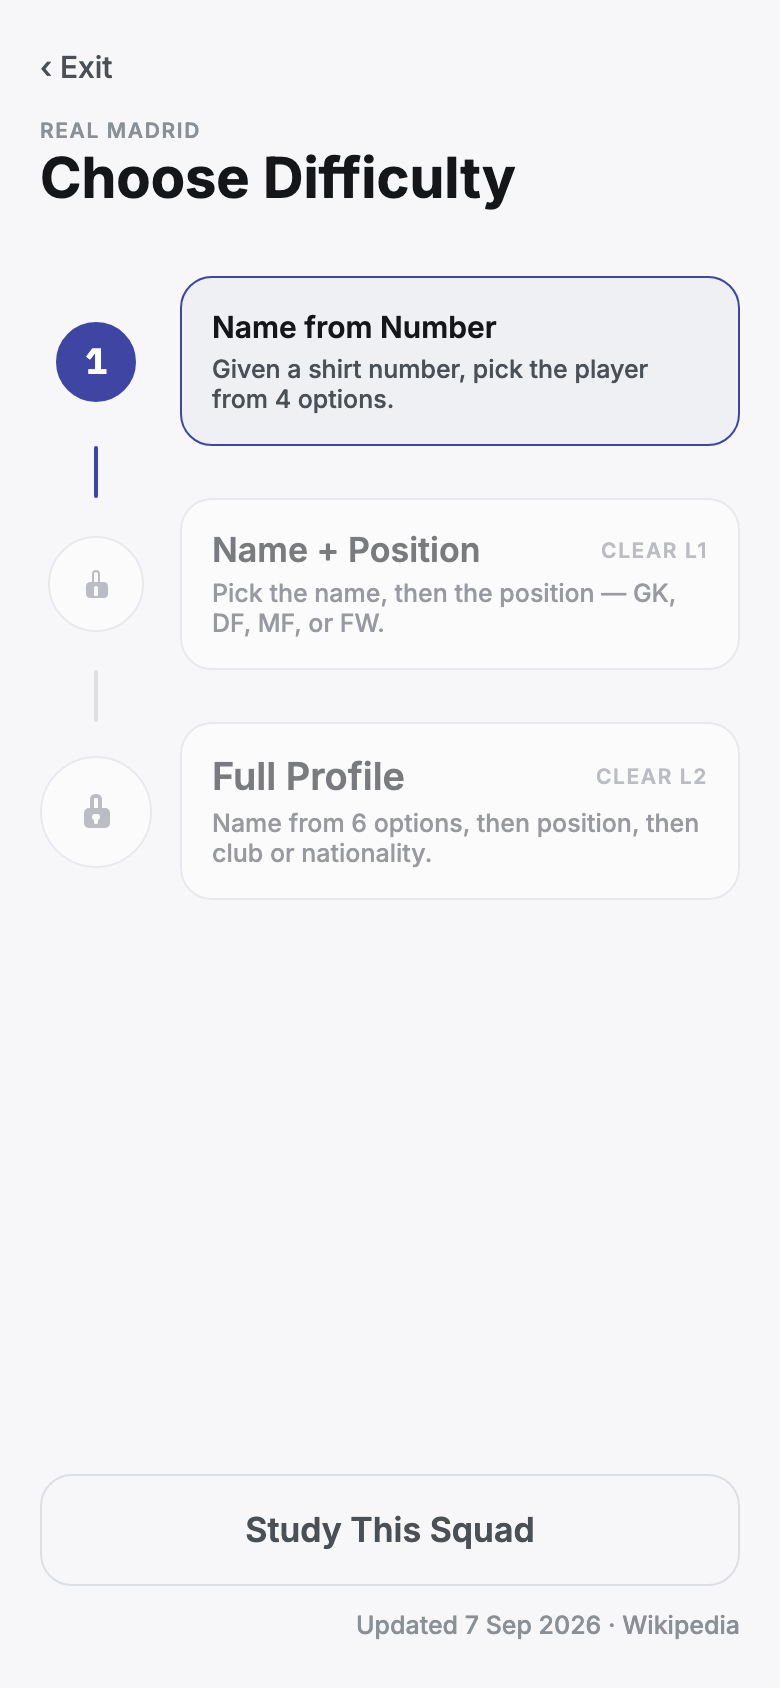
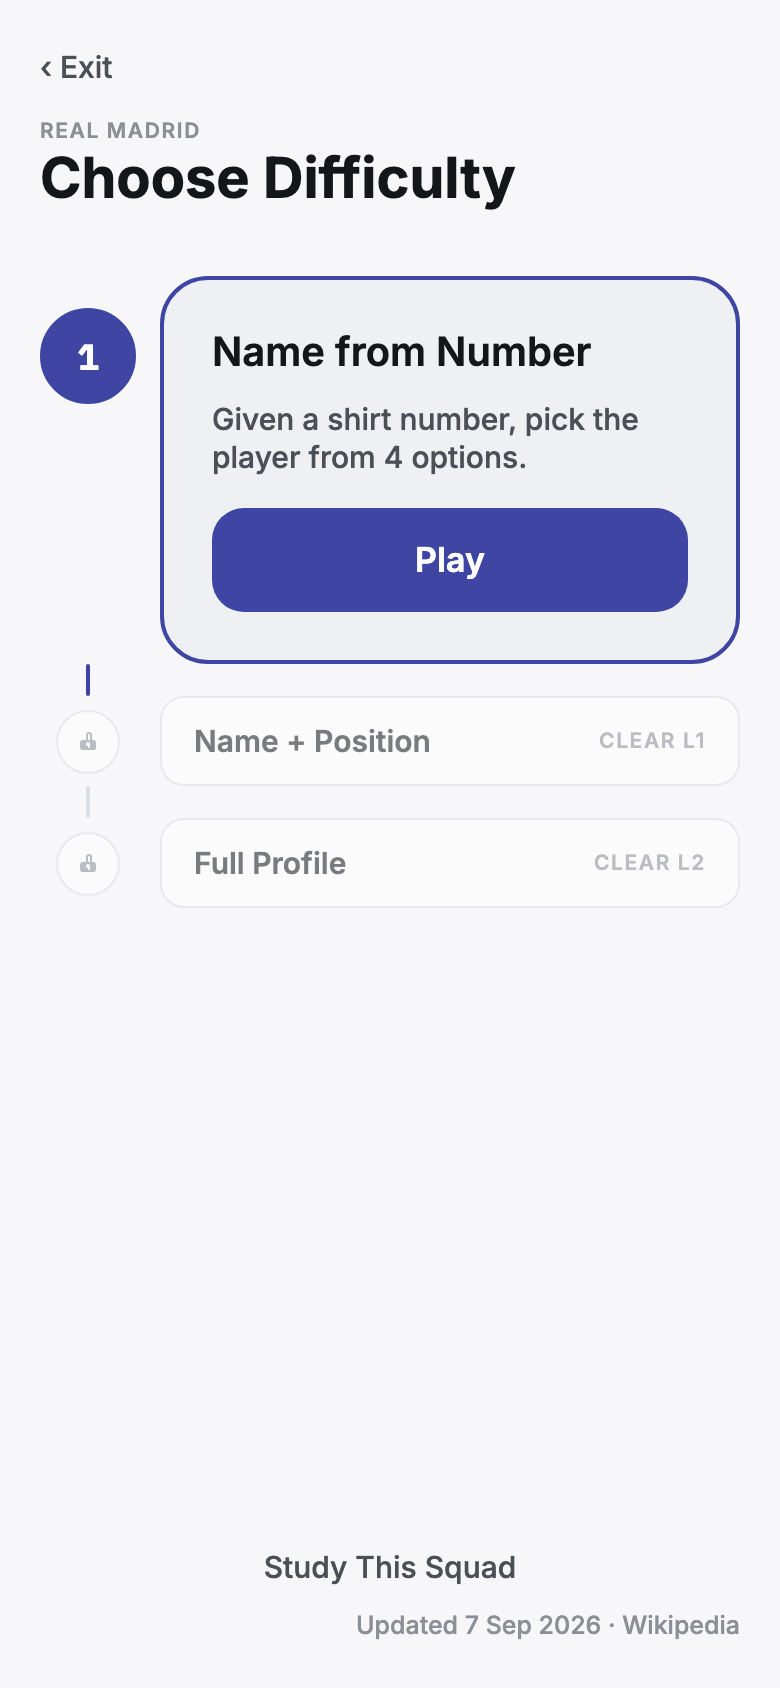
docs(design): recapture the difficulty screen (#67)

diff --git a/design/SCREENS.md b/design/SCREENS.md
@@ -80,7 +80,7 @@ flawless — see below). Route, file, and what it does.
 | --- | --------------------------------- | ---------------------------------------- | ------------------------------------------------------------------------------------------------------------------------------------------------------------------------------------------------------------------------------------------------------- |
 | 1   | `/`                               | `app/index.tsx`                          | Home. Centred, stacked wordmark lockup as the headline, continue-card for the last played team, Start Training.                                                                                                                                         |
 | 2   | `/team-picker`                    | `app/team-picker.tsx`                    | Team picker, segmented into Clubs and National Teams. Each row shows a mono sub-line — `LEVEL n · BEST n/10` or `NOT PLAYED`, green once cleared.                                                                                                       |
-| 3   | `/team/[squadId]/difficulty`      | `app/team/[squadId]/difficulty.tsx`      | The three-level difficulty ladder, accent border on the playable rung, locked rows stating their unlock condition, plus the Study entry point.                                                                                                          |
+| 3   | `/team/[squadId]/difficulty`      | `app/team/[squadId]/difficulty.tsx`      | The difficulty ladder in level order: the focused level expanded into a card with its description and a Play button, the other levels compact (locked ones stating their unlock condition), and Study as a text link.                                   |
 | 4   | `/team/[squadId]/study`           | `app/team/[squadId]/study.tsx`           | Browsable squad list — number, name, position, club or nationality. With a `players` param it narrows to only those players, hides the position filters, and titles itself "Missed Players".                                                            |
 | 5   | `/play/[squadId]/[level]`         | `app/play/[squadId]/[level]/index.tsx`   | A question. Hero slot, stat chips, answer options; on L2/L3 a part rail beside the hero shows each part's earned verdict, with the position/club/nationality parts below.                                                                               |
 | 6   | `/play/[squadId]/[level]/results` | `app/play/[squadId]/[level]/results.tsx` | Score, the players missed, and pass/fail-aware CTAs — `Study These N` is primary on a failed round, filtering Study to the misses, and suppresses `Study This Squad`. A 10/10 round instead renders the flawless "a la escuadra" state, no missed list. |
